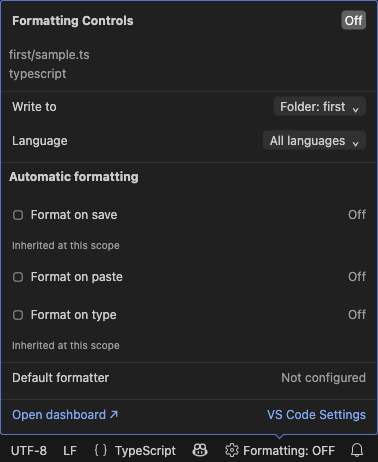
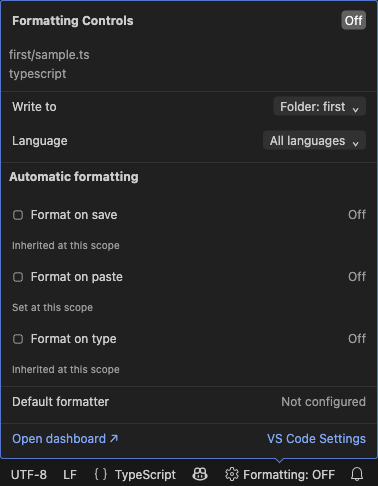
fix(controls): keep status card stable during formatting changes

diff --git a/test/status.ts b/test/status.ts
@@ -82,6 +82,10 @@ export async function reviewStatus(
   );
   await page.keyboard.press("Escape");
   await hover.waitFor({ state: "hidden" });
+  await page
+    .locator(".monaco-editor")
+    .first()
+    .click({ position: { x: 150, y: 100 } });
   await button.hover();
   await hover.waitFor({ state: "visible" });
   const hovered = await hover.boundingBox();
@@ -92,14 +96,37 @@ export async function reviewStatus(
   );
   assert.equal(await hover.textContent(), text);
   await page.screenshot({ path: join(directory, "status-hover-window.png") });
-  const row = hover.getByRole("row").filter({ hasText: "Format on paste" });
+  const row = hover.getByRole("row").filter({ hasText: "Format on type" });
   const before = (await row.textContent()) ?? "";
+  const helper = row.locator("xpath=following-sibling::tr[1]");
+  assert.match((await helper.textContent()) ?? "", /Inherited at this scope/);
   await row.getByRole("link").click();
-  await button.click();
   await hover.waitFor({ state: "visible" });
   await row
     .getByText(before.includes("Off") ? "On" : "Off", { exact: true })
     .waitFor();
+  assert.deepEqual(
+    await hover.boundingBox(),
+    hovered,
+    "Changing inherited formatting must not move or resize the card",
+  );
+  assert.ok(
+    await hover.isVisible(),
+    "A hover-only setting click must not need another status click",
+  );
+  assert.match((await helper.textContent()) ?? "", /Set at this scope/);
+  await row.getByRole("link").click();
+  await row
+    .getByText(before.includes("Off") ? "Off" : "On", { exact: true })
+    .waitFor();
+  assert.deepEqual(
+    await hover.boundingBox(),
+    hovered,
+    "Repeated clicks must keep the same position and size",
+  );
+  await page.screenshot({
+    path: join(directory, "status-after-toggle-window.png"),
+  });
   await hover.getByRole("link", { name: /Folder:/ }).click();
   await page.getByRole("option", { name: "Workspace", exact: true }).click();
   await button.click();
@@ -116,6 +143,6 @@ export async function reviewStatus(
   await hover.waitFor({ state: "visible" });
   assert.equal(await page.getByRole("tab").count(), tabs);
   console.log(
-    "Native status verified: cold click, identical hover position/content, pinning, Escape/Enter, formatting write, scope/language pickers and no editor tabs.",
+    "Native status verified: cold click, identical hover position/content, pinning, Escape/Enter, hover-only repeated toggles without moving the card, scope/language pickers and no editor tabs.",
   );
 }

diff --git a/src/status-controls.ts b/src/status-controls.ts
@@ -6,6 +6,7 @@ import { statusTooltip } from "./status-hover";
 /** Native status hover; its click command focuses the same hover, without a webview. */
 export class StatusControls {
   private revision = 0;
+  private fingerprint = "";
   private target: vscode.ConfigurationTarget | undefined;
   private languageOnly = false;
   private pending = false;
@@ -53,7 +54,6 @@ export class StatusControls {
     );
   }
   refresh(): void {
-    this.revision++;
     const document = this.document();
     const selection = this.selection();
     const effective = this.effective();
@@ -68,8 +68,7 @@ export class StatusControls {
       : undefined;
     const folder =
       document && vscode.workspace.getWorkspaceFolder(document.uri);
-    this.item.text = `$(settings-gear) Formatting: ${status(values)}`;
-    this.item.tooltip = statusTooltip({
+    const context = {
       file: document
         ? vscode.workspace.asRelativePath(document.uri)
         : "No active editor",
@@ -92,8 +91,22 @@ export class StatusControls {
             ? "Workspace"
             : `Folder: ${folder?.name ?? ""}`,
       languageScope: selection.language ?? "All languages",
-      revision: this.revision,
+    };
+    // Distinguish write destinations even when their visible labels match.
+    const fingerprint = JSON.stringify({
+      context,
+      target: selection.target,
+      uri: selection.uri?.toString(),
+      language: selection.language,
+      folders: vscode.workspace.workspaceFolders?.map((folder) =>
+        folder.uri.toString(),
+      ),
     });
+    if (fingerprint === this.fingerprint) return;
+    this.fingerprint = fingerprint;
+    this.revision++;
+    this.item.text = `$(settings-gear) Formatting: ${status(values)}`;
+    this.item.tooltip = statusTooltip({ ...context, revision: this.revision });
     this.item.accessibilityInformation = {
       label: this.item.text.replace("$(settings-gear) ", ""),
     };

diff --git a/shared/status-hover.ts b/shared/status-hover.ts
@@ -34,7 +34,7 @@ export function statusHover(context: HoverContext): string {
       ? "Mixed"
       : "Off";
   const dropdown = (value: string, action: string) =>
-    `<a href="${link(action)}" title="Choose ${action === "scope" ? "write scope" : "language scope"}"><span style="color:var(--vscode-dropdown-foreground);background-color:var(--vscode-dropdown-background);display:inline-block;border-radius:4px;">&nbsp; ${text(value)}&nbsp; ⌄ &nbsp;</span></a>`;
+    `<a href="${link(action)}" title="Choose ${action === "scope" ? "write scope" : "language scope"} in VS Code picker"><span style="color:var(--vscode-dropdown-foreground);background-color:var(--vscode-dropdown-background);display:inline-block;border-radius:4px;">&nbsp; ${text(value)}&nbsp; ⌄ &nbsp;</span></a>`;
   const triggers = ["Save", "Paste", "Type"]
     .map((label, i) => {
       const owned = context.owned[i];
@@ -47,13 +47,11 @@ export function statusHover(context: HoverContext): string {
         owned === undefined
           ? "Inherited at this scope"
           : owned !== context.flags[i]
-            ? `Effective value: ${context.flags[i] ? "On" : "Off"} · overridden by another scope`
-            : "";
+            ? `Effective value: ${context.flags[i] ? "On" : "Off"} (override)`
+            : "Set at this scope";
       return (
         row(control, muted(checked ? "On" : "Off"), 36) +
-        (note
-          ? `<tr><td colspan="2"><small>${muted(note)}</small></td></tr>`
-          : "")
+        `<tr height="18"><td colspan="2"><small>${muted(note)}</small></td></tr>`
       );
     })
     .join("");

diff --git a/test/integration/status-controls.ts b/test/integration/status-controls.ts
@@ -38,6 +38,17 @@ export async function runStatusTests(uri: vscode.Uri): Promise<void> {
     });
     assert.match(tooltip.value, /Effective value: On/);
     const stale = revision();
+    controls.refresh();
+    assert.equal(
+      revision(),
+      stale,
+      "Equivalent refreshes must keep active links valid",
+    );
+    assert.equal(
+      item.tooltip,
+      tooltip,
+      "Equivalent refreshes must not rebuild the hover",
+    );
     const pending = controls.control(stale, 1);
     await assert.rejects(controls.control(stale, 1), /Finish|changed/);
     await pending;

diff --git a/docs/status-controls.md b/docs/status-controls.md
@@ -10,9 +10,9 @@ The card uses a 360px content width, a compact heading/status badge, aligned sco
 
 The default write target follows the active file's folder, otherwise Workspace, or User without a workspace. Choosing a scope keeps that target within the window; Folder follows the active editor's folder. Unavailable targets fall back to the visibly labelled User scope. Language defaults to All languages and can be restricted to the active editor's language using the native picker.
 
-A row shows its selected scope's owned value when present, otherwise the effective inherited value. Clicking the row's On/Off link toggles that value at the displayed scope. An `effective On/Off` note identifies a higher-priority override that differs from the owned value. The header and status item summarize effective formatting for the active language regardless of the write scope.
+A row shows its selected scope's owned value when present, otherwise the effective inherited value. Clicking the row's On/Off link toggles that value at the displayed scope. An `effective On/Off` note identifies a higher-priority override that differs from the owned value. The header and status item summarize effective formatting for the active language regardless of the write scope. Each trigger keeps an ownership-note row whether its value is inherited, set here or overridden, so changing ownership does not resize or move the anchored card.
 
-The checkbox-style rows and field-style choices are command links, not HTML form inputs. Links carry the current revision and accept only the three formatting flags or scope/language choices. Configuration, editor, folder and window-focus changes invalidate earlier links. Pending controls cannot overlap. File names, languages, folder names, formatter labels and attribute text are HTML-escaped. HTML support uses only VS Code’s sanitized subset, with fixed table/row dimensions, static theme-token colors and static codicons. Theme-icon parsing is disabled so context text cannot introduce icons. Only the two extension control/navigation commands and the built-in Settings navigation command are trusted. Hovering does not write settings or run a formatter. Reopen the card after a picker or edit if VS Code dismisses it.
+The checkbox-style rows and field-style choices are command links, not HTML form inputs. Links carry the current revision and accept only the three formatting flags or scope/language choices. Changes to the displayed settings, selected write destination or editor/folder context invalidate earlier links. Equivalent notifications retain the current revision and hover content. Pending controls cannot overlap. File names, languages, folder names, formatter labels and attribute text are HTML-escaped. HTML support uses only VS Code’s sanitized subset, with fixed table/row dimensions, static theme-token colors and static codicons. Theme-icon parsing is disabled so context text cannot introduce icons. Only the two extension control/navigation commands and the built-in Settings navigation command are trusted. Hovering does not write settings or run a formatter. Reopen the card after a picker or edit if VS Code dismisses it.
 
 ## Native appearance and timing
 
@@ -28,4 +28,4 @@ Mouse hover follows VS Code's `workbench.hover.delay` preference. There is no pe
 - Formatting Controls: Native Quick Controls retains the original settings picker workflow and command ID `formattingControls.open`.
 - Formatting Controls: Open Dashboard contains save actions, formatter management, profiles and pause/recovery.
 
-After building, run `bun run test/run-integration.ts --status-ui` for the actual native hover/click test and `bun run test:ui` for the full dashboard. The status test verifies a cold click with editor focus, wider rendered bounds, identical hover/click bounds and content, pinning after moving the pointer away, Escape/Enter, real scoped writes, scope/language pickers, no new tabs, no form/script elements and a focused automated accessibility scan. CI runs the status test across the three existing themes. Backend tests cover stale/invalid links, owned-versus-effective values, save-action preservation and empty-window User scope. Automated checks do not replace the outstanding screen-reader review.
+After building, run `bun run test/run-integration.ts --status-ui` for the actual native hover/click test and `bun run test:ui` for the full dashboard. The status test verifies a cold click with editor focus, wider rendered bounds, identical hover/click bounds and content, pinning after moving the pointer away, Escape/Enter, hover-only repeated inherited-to-explicit toggles with unchanged bounds and no extra status click, real scoped writes, scope/language pickers, no new tabs, no form/script elements and a focused automated accessibility scan. CI runs the status test across the three existing themes. Backend tests cover stale/invalid links, owned-versus-effective values, save-action preservation and empty-window User scope. Automated checks do not replace the outstanding screen-reader review.

diff --git a/docs/validation.md b/docs/validation.md
@@ -76,3 +76,8 @@ Replaced the compact editor panel with one native formatting-only status card. L
 ### Anchored card layout refinement
 
 Replaced the narrow settings table with a 360px HTML content layout using the public MarkdownString supportHtml option and VS Code’s built-in sanitizer. Escaped all dynamic text and attribute content, disabled theme-icon parsing for user text, and retained constrained command links and stale-state protection. Native UI checks measure the rendered width, compare hover/click position and content, and reject form/script elements. Host syntax optimization keeps the bundle within the existing budget without changing debug names or source maps.
+
+
+### Interaction follow-up from screen recordings
+
+An inherited trigger becoming explicitly configured used to remove its helper row and shift the anchored card. Ownership notes now retain a consistent row height. Equivalent configuration/focus notifications no longer rebuild the tooltip or invalidate unchanged links. A real-editor regression starts from editor focus, opens by hover alone and toggles an inherited trigger twice without another status click; it checks ownership notes, value changes and identical bounds throughout. Scope/language labels explicitly describe opening a VS Code picker. The fields remain command links, not inline dropdown widgets.

diff --git a/CHANGELOG.md b/CHANGELOG.md
@@ -2,6 +2,8 @@
 
 ## Unreleased
 
+Fixed anchored-card jumps when inherited formatting becomes explicitly configured. Retained ownership-note row heights and skipped equivalent tooltip rebuilds while preserving invalidation for changed settings or write destinations. Added hover-only repeated-toggle coverage.
+
 Added a wider formatting-only status card using VS Code’s sanitized HTML support, themed choice fields and spaced checkbox-style links: hovering and clicking show the same native card above the status bar, and clicking keeps it focused without opening an editor tab. Save/Paste/Type toggles have explicit scope/language choices and stale-state protection. Save actions, pause/recovery and advanced controls remain in the dashboard. Quick Controls uses native formatting pickers; Native Quick Controls retains the original settings workflow.
 
 Added real Remote SSH regression coverage for scopes, host-owned profiles, import/export and persisted pause recovery after client reconnect, plus native UI review notes and remote User-scope guidance. Updated Node type declarations to ^26.6.5 while retaining Node 24 compatibility.
